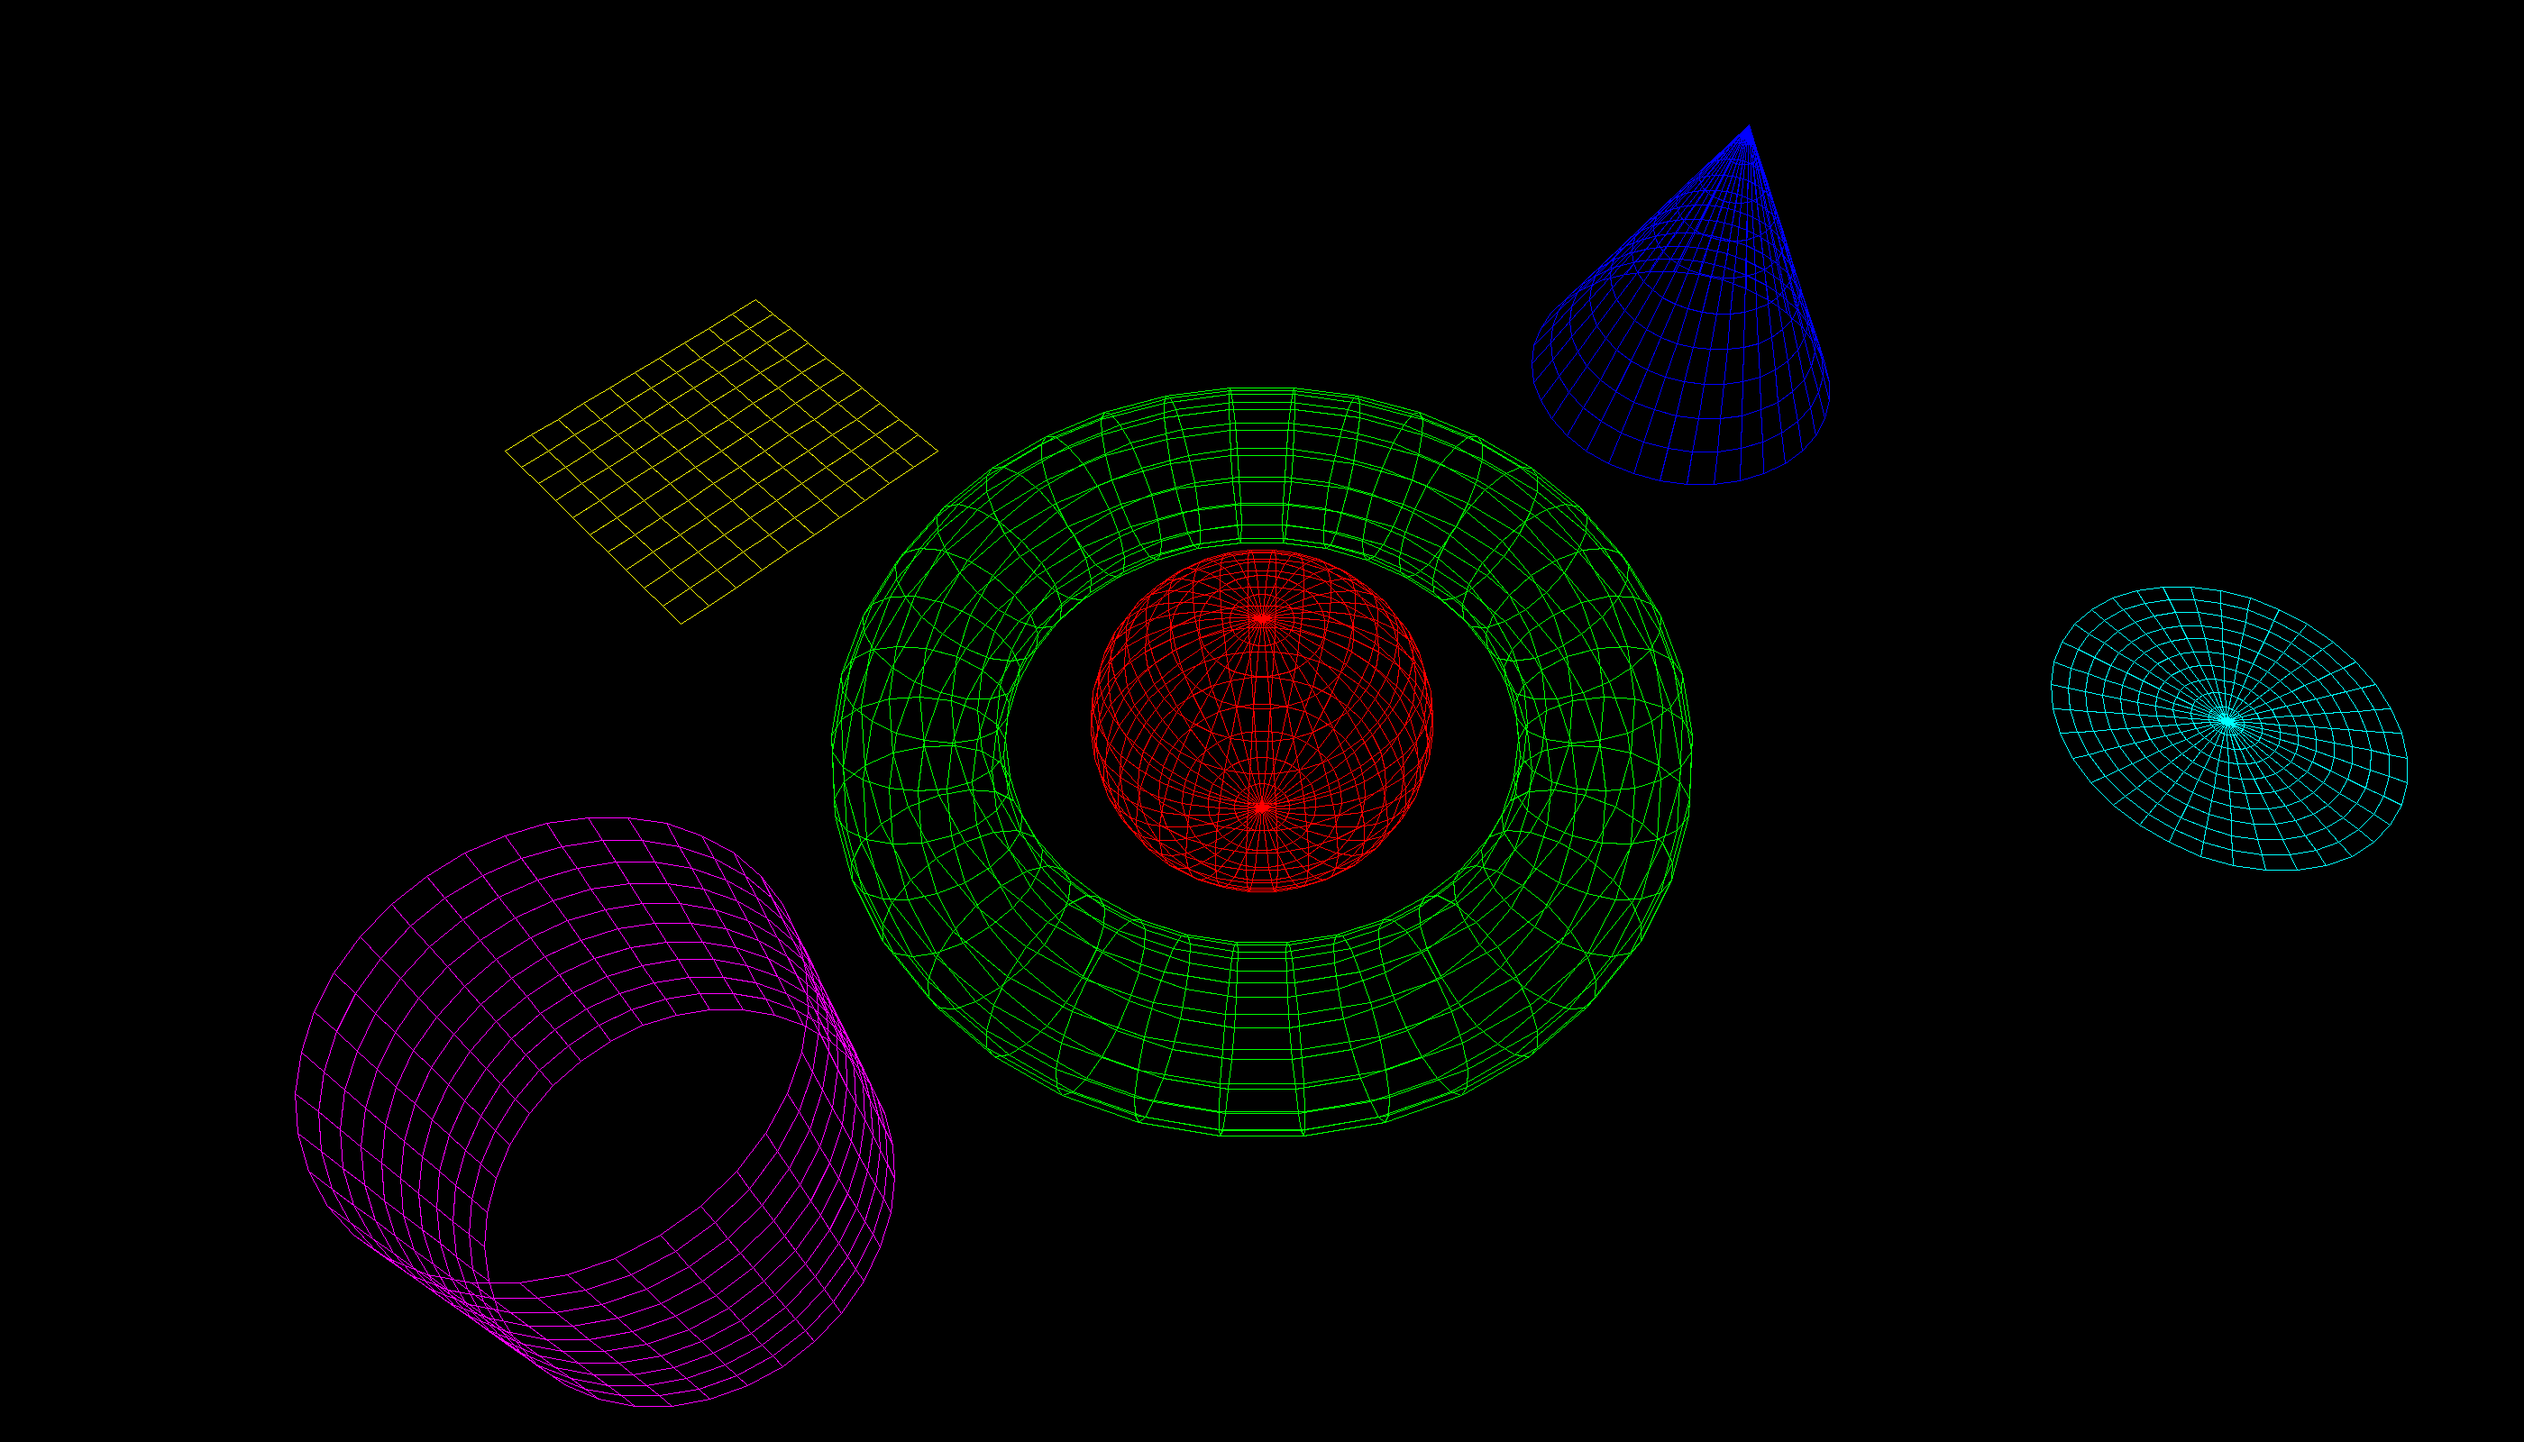
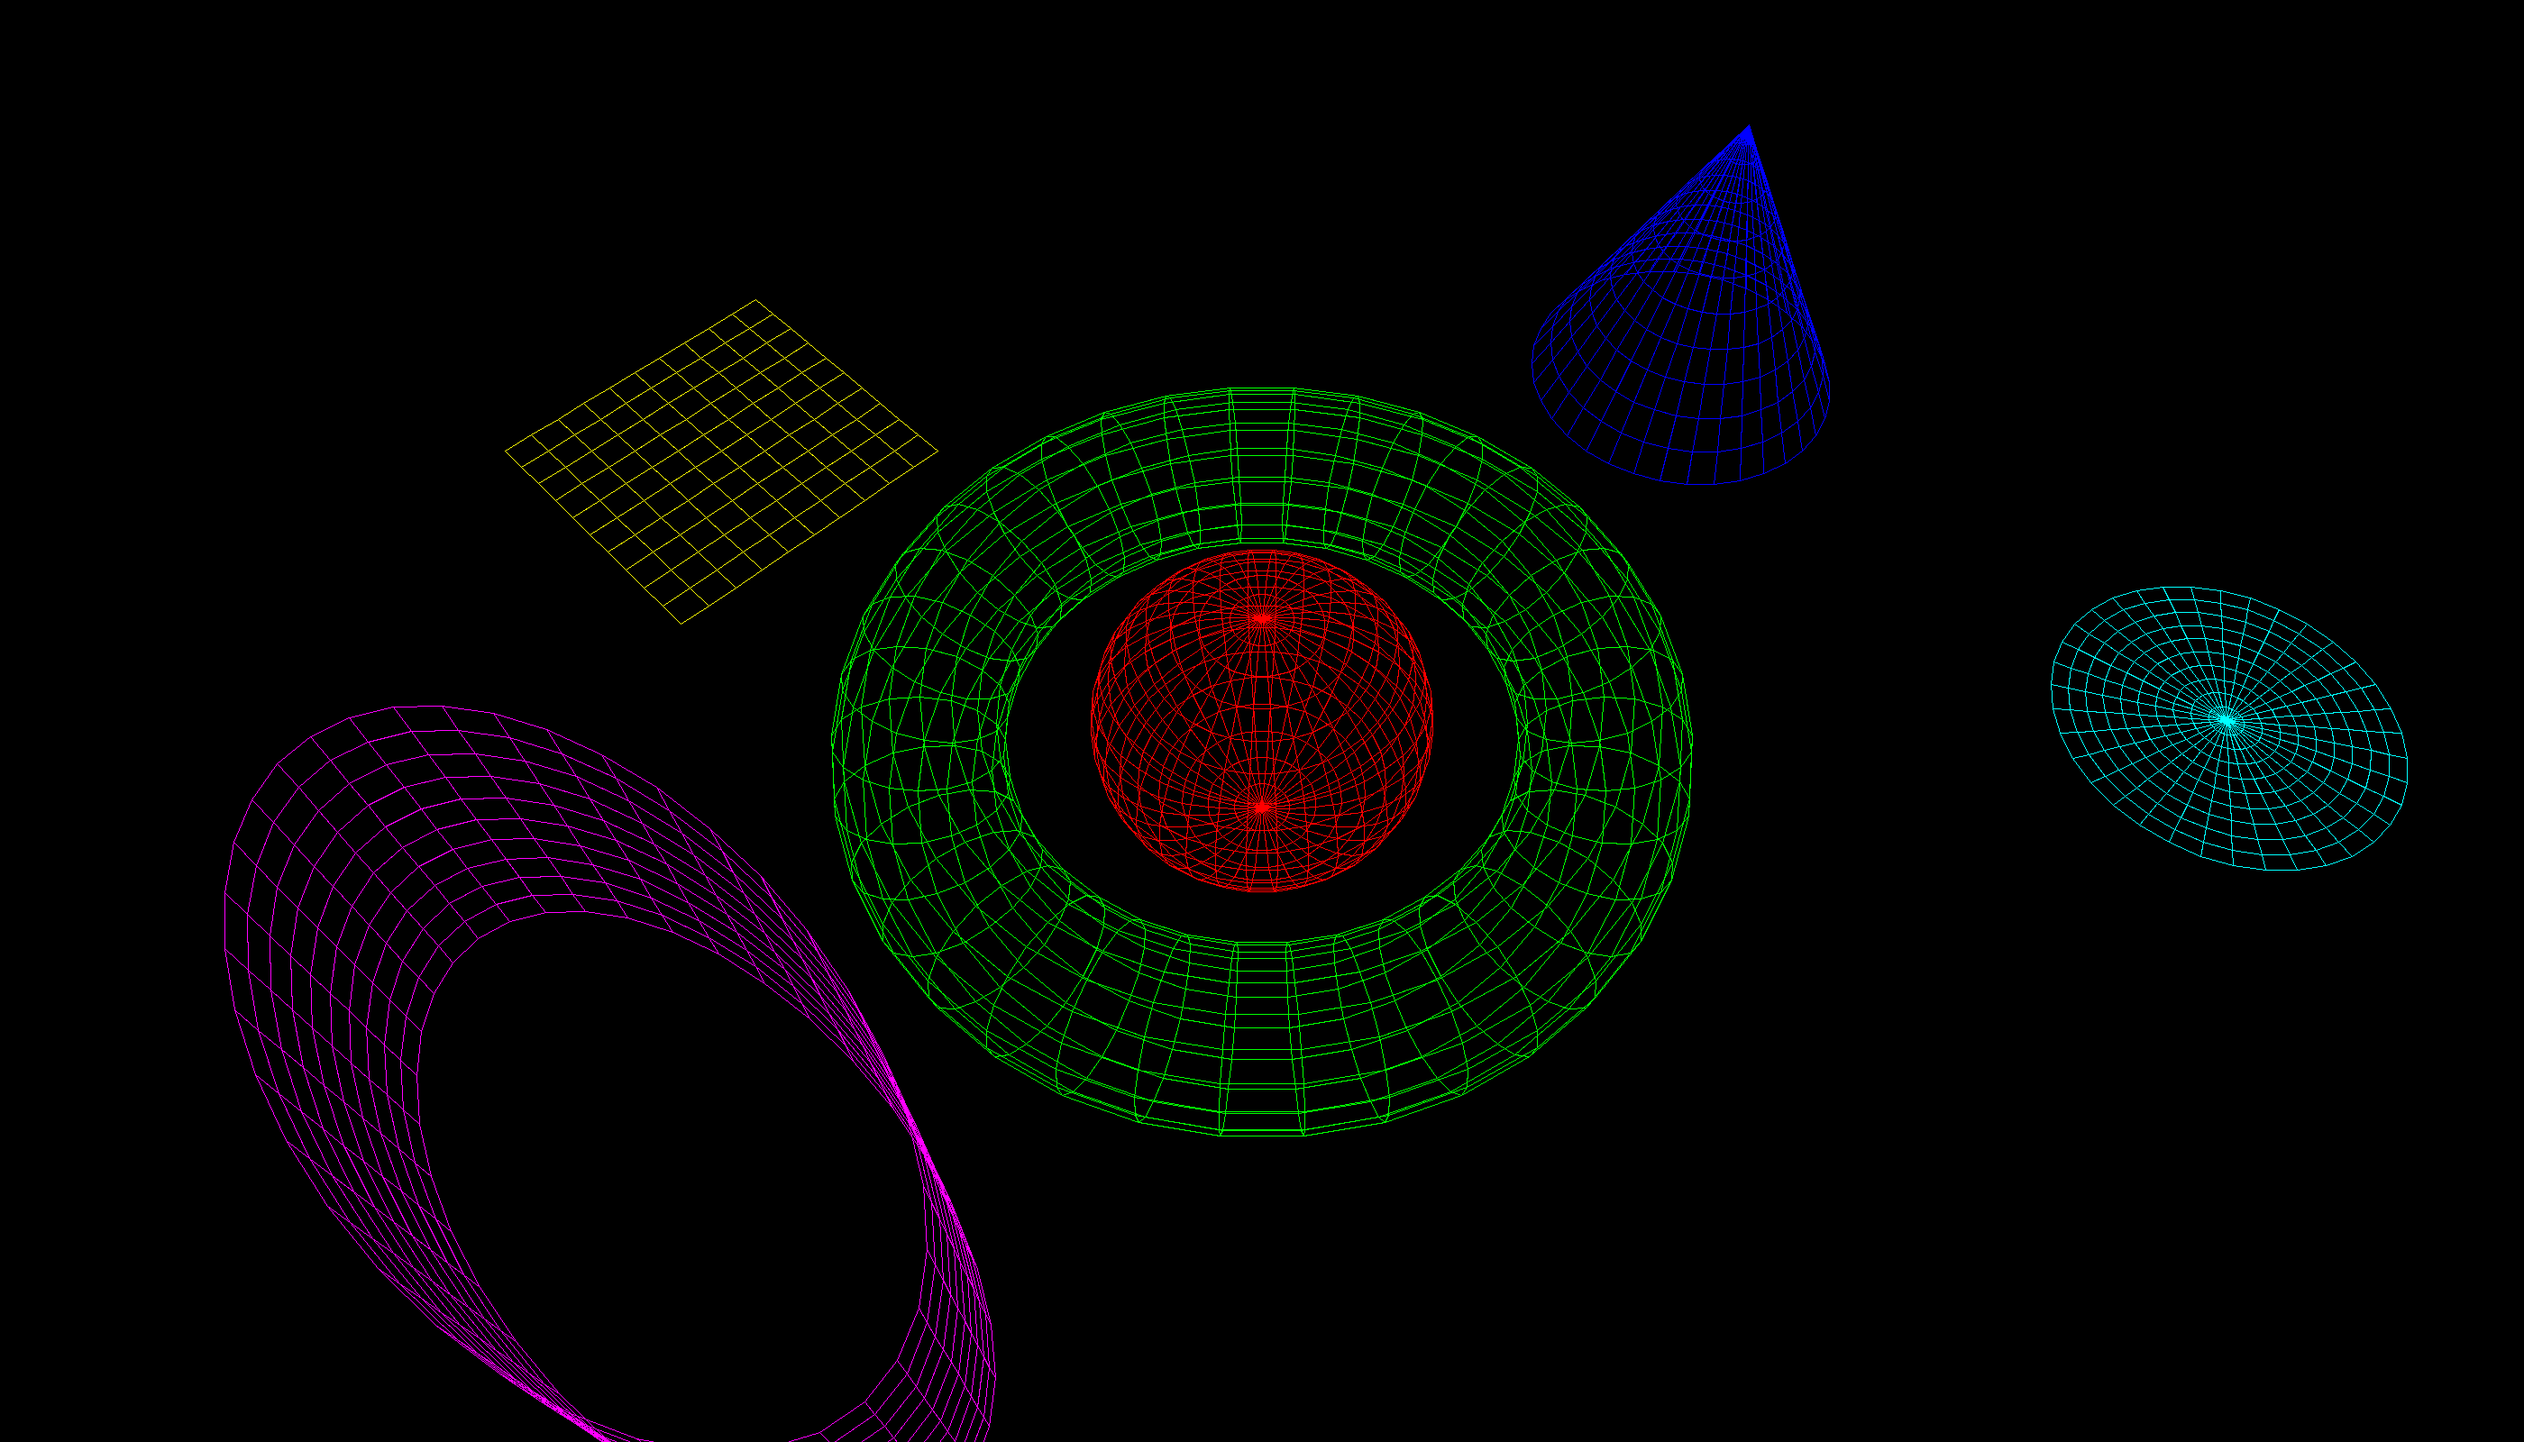
finished assignment

Changed region(s): [[0.1864, 0.5625, 0.3729, 0.8438], [0.1243, 0.6875, 0.2486, 1.0], [0.3729, 0.8438, 0.4039, 0.9375]]

diff --git a/assignment2/cameraMatrix.py b/assignment2/cameraMatrix.py
@@ -34,19 +34,122 @@ class cameraMatrix:
         self.__M = self.__C*self.__Mv
 
     def __setMv(self,U,V,N,E):
+        # Creating a 4x4 identity matrix for R inverse and T inverse 
+        __Mv = matrix(np.identity(4))
+
+        # Transposing U, V and N 
+        U = U.transpose()
+        V = V.transpose()
+        N = N.transpose()
+
+        # Setting the first row of the matrix, passing in U values and then multipying vector E with vector U
+        __Mv.set(0,0,U.get(0,0))
+        __Mv.set(0,1,U.get(0,1))
+        __Mv.set(0,2,U.get(0,2))
+        __Mv.set(0,3,-( E.get(0,0) * U.get(0,0) + E.get(1,0) * U.get(0,1) + E.get(2,0) * U.get(0,2)))
+
+        # Setting the second row of the matrix, passing in V values and then multipying vector E with vector V
+        __Mv.set(1,0,V.get(0,0))
+        __Mv.set(1,1,V.get(0,1))
+        __Mv.set(1,2,V.get(0,2))
+        __Mv.set(1,3,-( E.get(0,0) * V.get(0,0) + E.get(1,0) * V.get(0,1) + E.get(2,0) * V.get(0,2)))
+        
+        # Setting the third row of the matrix, passing in N values and then multipying vector E with vector N
+        __Mv.set(2,0,N.get(0,0))
+        __Mv.set(2,1,N.get(0,1))
+        __Mv.set(2,2,N.get(0,2))
+        __Mv.set(2,3,-( E.get(0,0) * N.get(0,0) + E.get(1,0) * N.get(0,1) + E.get(2,0) * N.get(0,2)))
+        
+        # The last row is already set because we created an identity matrix at the beginning that already populated [3,3] with a value 1
+
+        return __Mv
         
     def __setMp(self,nearPlane,farPlane):
-       
+        # Creating a 4x4 identity matrix 
+        __Mp = matrix(np.identity(4))
+
+        # Calculating a and b values
+        b = (-2*farPlane*nearPlane) / (farPlane-nearPlane)
+        a = (nearPlane+b) / nearPlane
+
+        # Setting the values in the matrix, populating it with nearPlane, farPlane and a and b values
+        __Mp.set(0,0,nearPlane)
+        __Mp.set(1,1,nearPlane)
+        __Mp.set(2,2,a)
+        __Mp.set(2,3,b)
+        __Mp.set(3,2,-1)
+        __Mp.set(3,3,0)
+
+        # Matrix will appear like this
+        #[[nearPlane, 0, 0, 0],
+        #[0, nearPlane, 0, 0],
+        #[0, 0, a, b],
+        #[0, 0, -1, 0],]
+
+        return __Mp
+
     def __setT1(self,nearPlane,theta,aspect):
+        # Calculate t,r,b,l, these points will form a rectangle on the near plane
+        t = nearPlane * tan((pi/180.0) * (theta / 2.0))
+        b = -t
+        r = aspect * t
+        l = -r
+
+        # Creating a 4x4 identity matrix for the translation matrix
+        __T1 = matrix(np.identity(4))
         
+        # Setting the values in the matrix
+        __T1.set(0,3,-(r + l) / 2.0)
+        __T1.set(1,3,-(t + b) / 2.0)
+        
+        return __T1
+
     def __setS1(self,nearPlane,theta,aspect):
-        
+        # Calculate t,r,b,l, these points will form a rectangle on the near plane
+        t = nearPlane * tan((pi/180.0) * (theta / 2.0))
+        b = -t
+        r = aspect * t
+        l = -r
+
+        # Creating a 4x4 identity matrix for the scaling matrix
+        __S1 = matrix(np.identity(4))
+
+        # Setting the values in the matrix
+        __S1.set(0,0,2.0/(r-l))
+        __S1.set(1,1,2.0/(t-b))
+
+        return __S1
+
     def __setT2(self):
+        # Creating a 4x4 identity matrix to transform objects from the warped viewing volume into screen coordinates
+        __T2 = matrix(np.identity(4))
         
+        # Setting the values in the matrix
+        __T2.set(0,3,1.0)
+        __T2.set(1,3,1.0)
+
+        return __T2
+
     def __setS2(self,width,height):
-        
+        # Creating a 4x4 identity matrix that will scale the translated coordinates to fit in the defined space
+        __S2 = matrix(np.identity(4))
+
+        # Setting the values in the matrix
+        __S2.set(0,0,width/2.0)
+        __S2.set(1,1,height/2.0)
+
+        return __S2
+
     def __setW2(self,height):
+        # Creating a 4x4 identity matrix
+        __W2 = matrix(np.identity(4))
+
+        # Setting the values in the matrix that will transform the origin to the top left corner
+        __W2.set(1,1,-1.0)
+        __W2.set(1,3, height)
         
+        return __W2
+
     def worldToViewingCoordinates(self,P):
         return self.__Mv*P
 

diff --git a/assignment2/parametricCylinder.py b/assignment2/parametricCylinder.py
@@ -1,0 +1,31 @@
+from math import *
+import numpy as np
+from matrix import matrix
+from parametricObject import parametricObject
+
+class parametricCylinder(parametricObject):
+
+    def __init__(self,T=matrix(np.identity(4)),height=1.0,radius=1.0,color=(0,0,0),reflectance=(0.0,0.0,0.0),uRange=(0.0,0.0),vRange=(0.0,0.0),uvDelta=(0.0,0.0)):
+        super().__init__(T,color,reflectance,uRange,vRange,uvDelta)
+        self.__height = height
+        self.__radius = radius
+
+    def getPoint(self,u,v):
+        P = matrix(np.ones((4,1)))
+        P.set(0,0,self.__radius*cos(v))
+        P.set(1,0,self.__height*sin(v))
+        P.set(2,0,self.__height*u)
+        return P
+    
+    # set radius
+    def setRadius(self,radius):
+        self.__radius = radius
+    # return radius
+    def getRadius(self):
+        return self.__radius
+    # return height
+    def getHeight(self):
+        return self.__height
+    # set height
+    def setHeight(self,height):
+        self.__height = height

diff --git a/assignment2/parametricPlane.py b/assignment2/parametricPlane.py
@@ -1,0 +1,30 @@
+from math import *
+import numpy as np
+from matrix import matrix
+from parametricObject import parametricObject
+
+class parametricPlane(parametricObject):
+
+    def __init__(self,T=matrix(np.identity(4)),width=1.0,height=1.0,color=(0,0,0),reflectance=(0.0,0.0,0.0),uRange=(0.0,0.0),vRange=(0.0,0.0),uvDelta=(0.0,0.0)):
+        super().__init__(T,color,reflectance,uRange,vRange,uvDelta)
+        self.__width = width
+        self.__height = height
+
+    def getPoint(self,u,v):
+        P = matrix(np.ones((4,1)))
+        P.set(0,0,u*self.__width)   
+        P.set(1,0,v*self.__height)
+        P.set(2,0,0)
+        return P
+    
+    def getWidth(self):
+        return self.__width
+    
+    def getHeight(self):
+        return self.__height
+
+    def setWidth(self,width):
+        self.__width = width
+
+    def setHeight(self,height):
+        self.__height = height

diff --git a/assignment2/parametricCircle.py b/assignment2/parametricCircle.py
@@ -1,0 +1,23 @@
+from math import *
+import numpy as np
+from matrix import matrix
+from parametricObject import parametricObject
+
+class parametricCircle(parametricObject):
+
+    def __init__(self,T=matrix(np.identity(4)),radius=1.0,color=(0,0,0),reflectance=(0.0,0.0,0.0),uRange=(0.0,0.0),vRange=(0.0,0.0),uvDelta=(0.0,0.0)):
+        super().__init__(T,color,reflectance,uRange,vRange,uvDelta)
+        self.__radius = radius
+
+    def getPoint(self,u,v):
+        P = matrix(np.ones((4,1)))
+        P.set(0,0,self.__radius*u*cos(v))   
+        P.set(1,0,self.__radius*u*sin(v))
+        P.set(2,0,0)
+        return P
+    
+    def getRadius(self):
+        return self.__radius
+
+    def setRadius(self,radius):
+        self.__radius = radius

diff --git a/assignment2/testAssignment2.py b/assignment2/testAssignment2.py
@@ -4,12 +4,12 @@ from point import point
 from transform import transform
 from graphicsWindow import graphicsWindow
 from cameraMatrix import cameraMatrix
-#from parametricPlane import parametricPlane
-#from parametricCircle import parametricCircle
+from parametricPlane import parametricPlane
+from parametricCircle import parametricCircle
 from parametricSphere import parametricSphere
 from parametricTorus import parametricTorus
-#from parametricCone import parametricCone
-#from parametricCylinder import parametricCylinder
+from parametricCone import parametricCone
+from parametricCylinder import parametricCylinder
 from wireMesh import wireMesh
 
 NP = 10.0 #Near plane

diff --git a/assignment2/matrix.py b/assignment2/matrix.py
@@ -10,6 +10,10 @@ class matrix:
     def set(self,r,c,a):
         self.__m[r][c] = a
 
+    # TEST
+    def getArray(self):
+        return self.__m
+
     def get(self,r,c):
         return self.__m[r][c]
 
